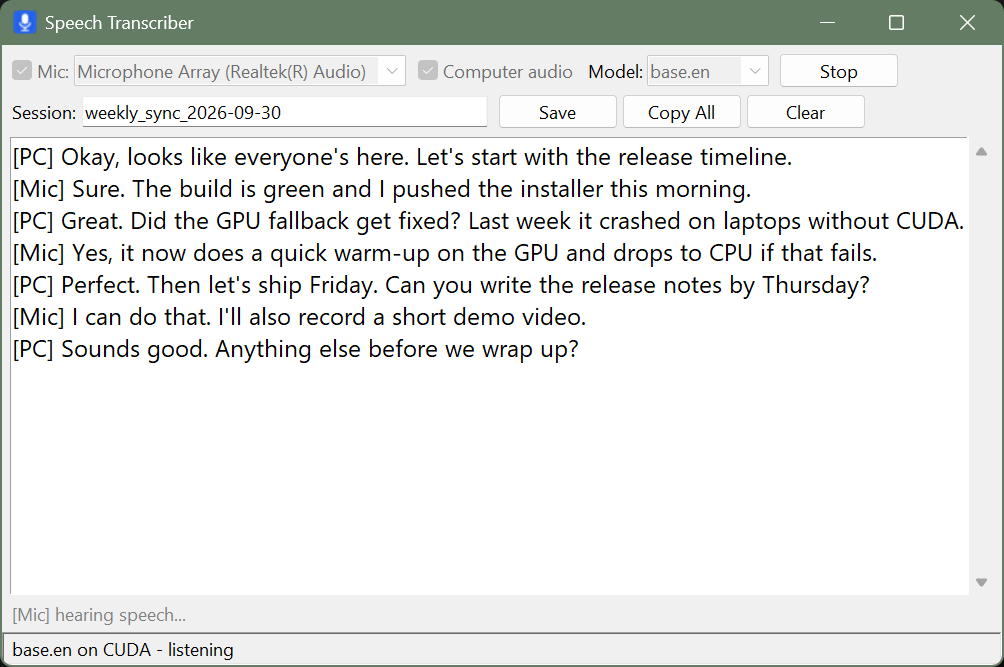
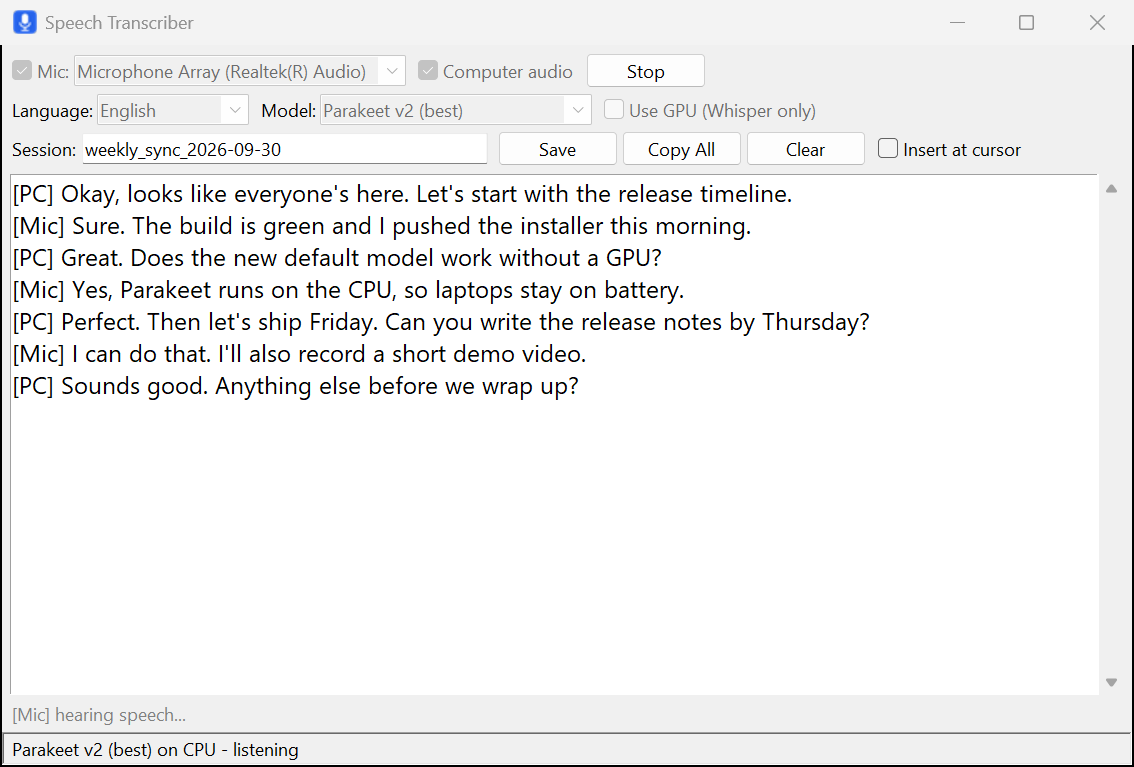
Prepare v1.1.0: show status lines at default size, refresh docs and screenshot
The transcript box requested 24 lines, which pushed the activity line and
status bar out of the default window. Let it fill the remaining space instead.
Update the screenshot for the new controls and fix stale overview page details.

Changed region(s): [[0.0, 0.0, 1.0, 1.0]]

diff --git a/index.html b/index.html
@@ -59,7 +59,7 @@
 
   <div class="grid">
     <figure>
-      <img src="docs/screenshot.png" width="1004" height="667"
+      <img src="docs/screenshot.png" width="1134" height="767"
            alt="Speech Transcriber window showing a meeting transcript with lines labeled [Mic] and [PC]">
       <figcaption><b>Fig. 1.</b> Both sources in one timeline: <span class="tag mic">[Mic]</span> is you,
         <span class="tag pc">[PC]</span> is whatever plays through your speakers.</figcaption>
@@ -69,8 +69,9 @@
       <h2>How it works</h2>
       <ol>
         <li><b>Capture.</b> Mic and a speaker loopback are each recorded on their own thread in 100&nbsp;ms blocks at 16&nbsp;kHz.</li>
-        <li><b>Segment.</b> A running noise floor detects speech; 0.6&nbsp;s of silence (or 15&nbsp;s max) ends a phrase. Blips under 0.3&nbsp;s are dropped.</li>
-        <li><b>Transcribe.</b> One shared model (Parakeet or Whisper) handles phrases from both sources in arrival order, on the CPU.</li>        <li><b>Save.</b> Ctrl+S writes <code>saved_histories/&lt;session&gt;.md</code> with an LLM instruction for a summary and next steps.</li>
+        <li><b>Segment.</b> A running noise floor detects speech; 0.6&nbsp;s of silence (or 10&nbsp;s max) ends a phrase. Blips under 0.3&nbsp;s are dropped.</li>
+        <li><b>Transcribe.</b> One shared model (Parakeet or Whisper) handles phrases from both sources in arrival order, on the CPU.</li>
+        <li><b>Save.</b> Ctrl+S writes <code>saved_histories/&lt;session&gt;.md</code> with an LLM instruction for a summary and next steps.</li>
       </ol>
 
       <h2>Features</h2>
@@ -79,6 +80,7 @@
         <li>Battery friendly: CPU only by default; GPU only when you tick <b>Use GPU</b> (Whisper).</li>
         <li>English: <b>Parakeet v2</b> (default), Whisper <code>tiny.en</code> / <code>base.en</code> / <code>small.en</code>.</li>
         <li>Multilingual: <b>Parakeet v3</b>, Whisper <code>base</code> / <code>small</code> / <code>large-v3-turbo</code>.</li>
+        <li>Edit while it listens: new text continues after the last transcribed text, or tick <b>Insert at cursor</b>.</li>
         <li><b>Copy All</b> copies instruction + transcript to the clipboard.</li>
         <li>Single Windows <code>.exe</code> via <code>build.bat</code>.</li>
       </ul>

diff --git a/transcriber.py b/transcriber.py
@@ -305,7 +305,8 @@ class App:
 
         text_frame = ttk.Frame(root, padding=(8, 8, 8, 0))
         text_frame.pack(fill="both", expand=True)
-        self.text = tk.Text(text_frame, wrap="word", font=("Segoe UI", 12), undo=True)
+        # height=1: fill what's left instead of requesting 24 lines, which pushes the status lines off.
+        self.text = tk.Text(text_frame, wrap="word", font=("Segoe UI", 12), undo=True, height=1)
         scroll = ttk.Scrollbar(text_frame, command=self.text.yview)
         self.text.configure(yscrollcommand=scroll.set)
         scroll.pack(side="right", fill="y")

diff --git a/README.md b/README.md
@@ -60,7 +60,8 @@ flowchart TD
    arrival order, typically 0.1–0.4 s after the phrase ends. A tiny VAD (Silero) skips
    non-speech first, so noise costs almost nothing.
 4. Text lands in the window tagged with its source. The gray line under the transcript shows
-   what's happening live (`hearing speech…`, `transcribing…`).
+   what's happening live (`hearing speech…`, `transcribing…`); the status bar below it shows the
+   model state, including the first-use download, and any errors.
 
 ## Install and run
 
@@ -69,7 +70,7 @@ The first run downloads the selected speech model (into `~/.cache/huggingface`; 
 
 **Windows: download the exe (no Python needed)**
 
-Grab `transcriber.exe` from the [latest release](https://github.com/anoted/audio_transcript/releases/latest)
+Grab `transcriber.exe` (about 100 MB) from the [latest release](https://github.com/anoted/audio_transcript/releases/latest)
 and run it. Transcripts are saved to `saved_histories\` next to the exe.
 
 **Windows: from source** (Python 3.10+)
@@ -100,8 +101,8 @@ discrete GPU can stay asleep on battery. Parakeet on the CPU is slightly faster 
 `base.en` (~0.5 s vs ~0.65 s per 6 s phrase) and more accurate than any Whisper size listed here.
 
 **Use GPU** (Whisper only) needs CUDA 12 cuBLAS and cuDNN 9, from `run.bat --gpu` /
-`./setup.sh --gpu` (`requirements-gpu.txt`). If the GPU can't be used, the app runs on CPU and
-the status bar says `GPU unavailable`.
+`./setup.sh --gpu` (`requirements-gpu.txt`). The exe doesn't bundle them, so it needs those DLLs
+on `PATH`. If the GPU can't be used, the app runs on CPU and the status bar says `GPU unavailable`.
 
 ## Saved file format
 
